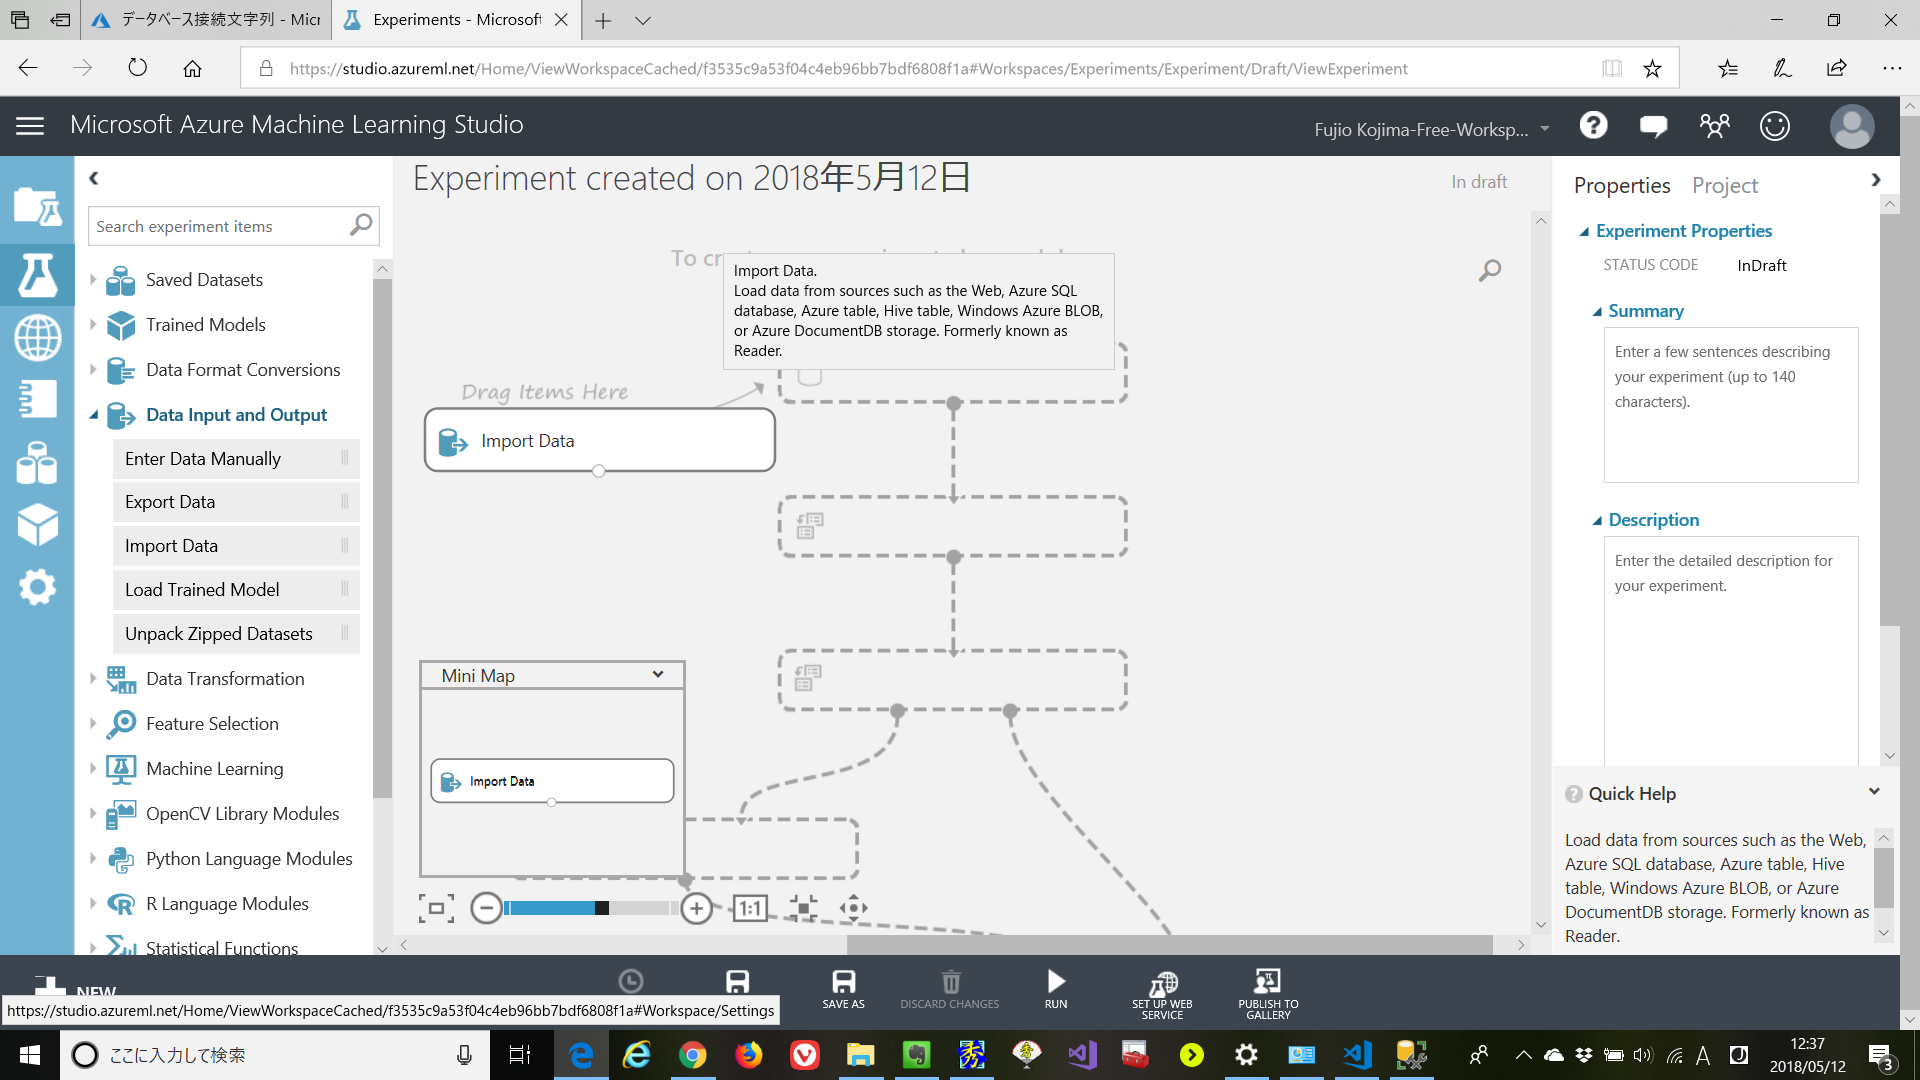
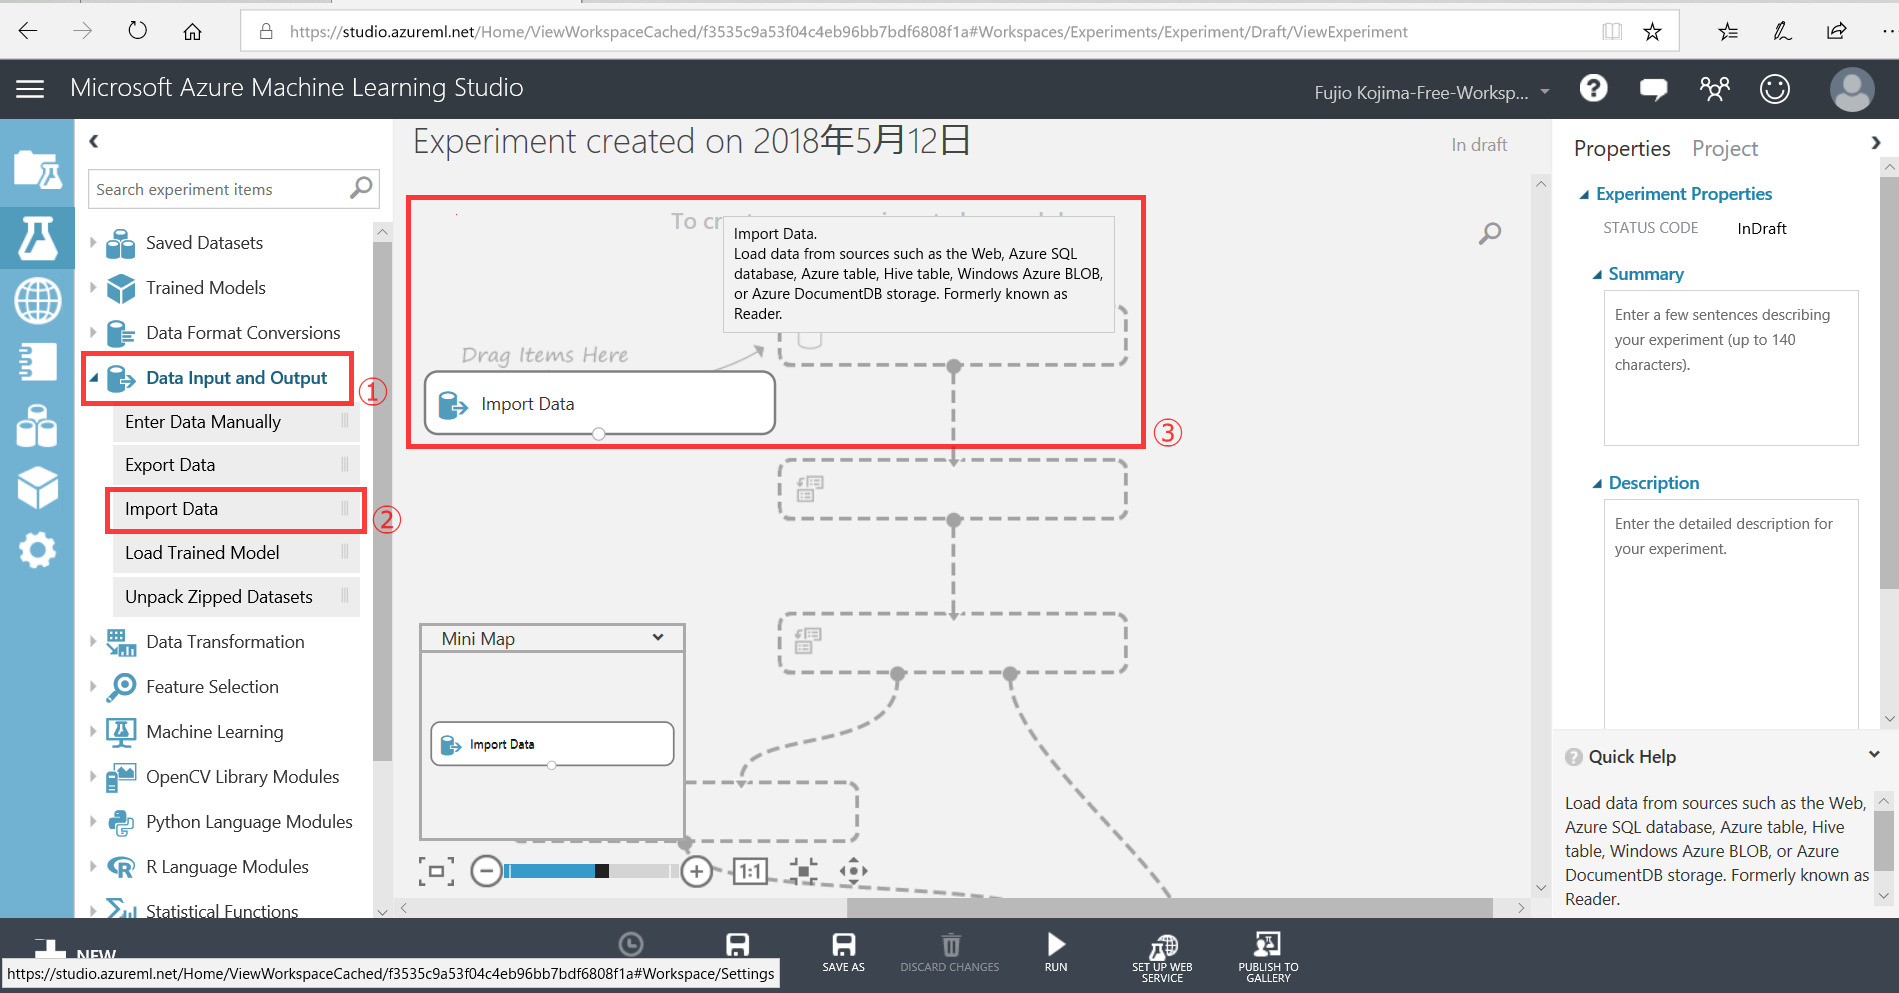
README.md の更新。

Changed region(s): [[0.0, 0.0, 1.0, 1.0], [0.5282, 0.718, 0.5592, 0.7492]]

diff --git a/README.md b/README.md
@@ -79,4 +79,45 @@ Azure Machine Learning Studio を使って簡単に機械学習を利用した A
 
 ![Microsoft Azure Machine Learning Studio によるマシーンラーニング (機械学習)](https://github.com/Fujiwo/PredictStockPrice-AI-decode/blob/master/images/2018-05-12%20(18).png?raw=true "Microsoft Azure Machine Learning Studio によるマシーンラーニング (機械学習)")
 
+### 3.2 「EXPERIMENTS」-「NEW」で新しい Experiment の追加を開始します。
 
+![Microsoft Azure Machine Learning Studio によるマシーンラーニング (機械学習)](https://github.com/Fujiwo/PredictStockPrice-AI-decode/blob/master/images/2018-05-12%20(20).png?raw=true "Microsoft Azure Machine Learning Studio によるマシーンラーニング (機械学習)")
+
+### 3.3 Blank Experiment を選んで追加します。
+
+![Microsoft Azure Machine Learning Studio によるマシーンラーニング (機械学習)](https://github.com/Fujiwo/PredictStockPrice-AI-decode/blob/master/images/2018-05-12%20(21).png?raw=true "Microsoft Azure Machine Learning Studio によるマシーンラーニング (機械学習)")
+
+### 3.4 左側のツールボックスから、「Data Input and Output」の中の「Import Data」を作図エリアの先頭の箱にドラッグ アンド ドロップします。
+
+![Microsoft Azure Machine Learning Studio によるマシーンラーニング (機械学習)](https://github.com/Fujiwo/PredictStockPrice-AI-decode/blob/master/images/2018-05-12%20(23).png?raw=true "Microsoft Azure Machine Learning Studio によるマシーンラーニング (機械学習)")
+
+### 3.5 「Import Data」のプロパティを設定します。
+「Launch Import Data Wizard」をクリックして、インポート データ ウィザードを起動します。
+
+![Microsoft Azure Machine Learning Studio によるマシーンラーニング (機械学習)](https://github.com/Fujiwo/PredictStockPrice-AI-decode/blob/master/images/2018-05-12%20(32).png?raw=true "Microsoft Azure Machine Learning Studio によるマシーンラーニング (機械学習)")
+
+### 3.6 「Azure SQL Database」を選択して、次へ行きます。
+
+![Microsoft Azure Machine Learning Studio によるマシーンラーニング (機械学習)](https://github.com/Fujiwo/PredictStockPrice-AI-decode/blob/master/images/2018-05-12%20(33).png?raw=true "Microsoft Azure Machine Learning Studio によるマシーンラーニング (機械学習)")
+
+### 3.7 「Subscription ID」、「Database server name」、「Database name」、「User name」そして「Password」を入力します。
+「Test Connection」で接続に成功することを確認して、次へ行きます。
+
+![Microsoft Azure Machine Learning Studio によるマシーンラーニング (機械学習)](https://github.com/Fujiwo/PredictStockPrice-AI-decode/blob/master/images/2018-05-12%20(34).png?raw=true "Microsoft Azure Machine Learning Studio によるマシーンラーニング (機械学習)")
+
+### 3.8 「Database query」として、SELECT [Adjusted] FROM [dbo].[9790] と入力し、ウィザードを完了します。
+
+![Microsoft Azure Machine Learning Studio によるマシーンラーニング (機械学習)](https://github.com/Fujiwo/PredictStockPrice-AI-decode/blob/master/images/2018-05-12%20(39).png?raw=true "Microsoft Azure Machine Learning Studio によるマシーンラーニング (機械学習)")
+
+### 3.9 「Import Data」の動作を確認してみましょう。
+下のバーの「RUN」をクリックします。
+
+![Microsoft Azure Machine Learning Studio によるマシーンラーニング (機械学習)](https://github.com/Fujiwo/PredictStockPrice-AI-decode/blob/master/images/2018-05-12%20(40).png?raw=true "Microsoft Azure Machine Learning Studio によるマシーンラーニング (機械学習)")
+
+### 3.10 「RUN」が完了したら、「Import Data」を右クリックし、「Results dataset」から「Visualize」をクリックします。
+
+![Microsoft Azure Machine Learning Studio によるマシーンラーニング (機械学習)](https://github.com/Fujiwo/PredictStockPrice-AI-decode/blob/master/images/2018-05-12%20(41).png?raw=true "Microsoft Azure Machine Learning Studio によるマシーンラーニング (機械学習)")
+
+### 3.11 SQL データベースからインポートされたデータを見ることができます。
+
+![Microsoft Azure Machine Learning Studio によるマシーンラーニング (機械学習)](https://github.com/Fujiwo/PredictStockPrice-AI-decode/blob/master/images/2018-05-12%20(42).png?raw=true "Microsoft Azure Machine Learning Studio によるマシーンラーニング (機械学習)")
